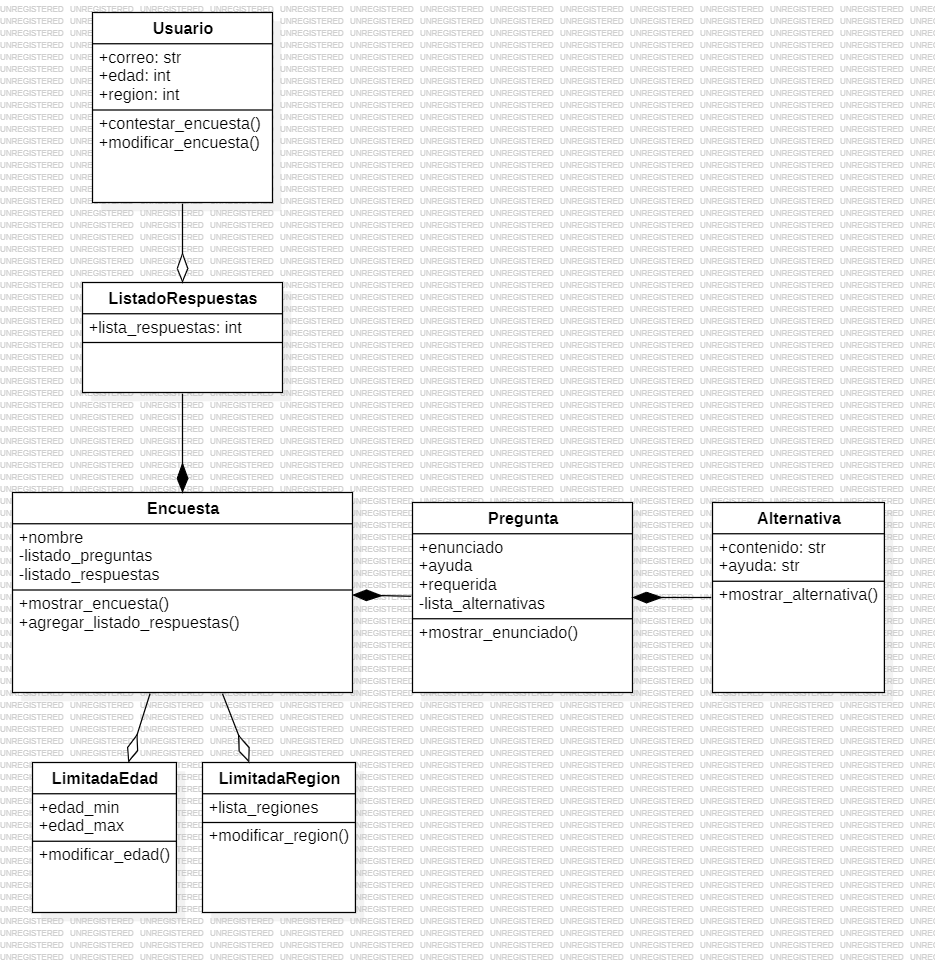
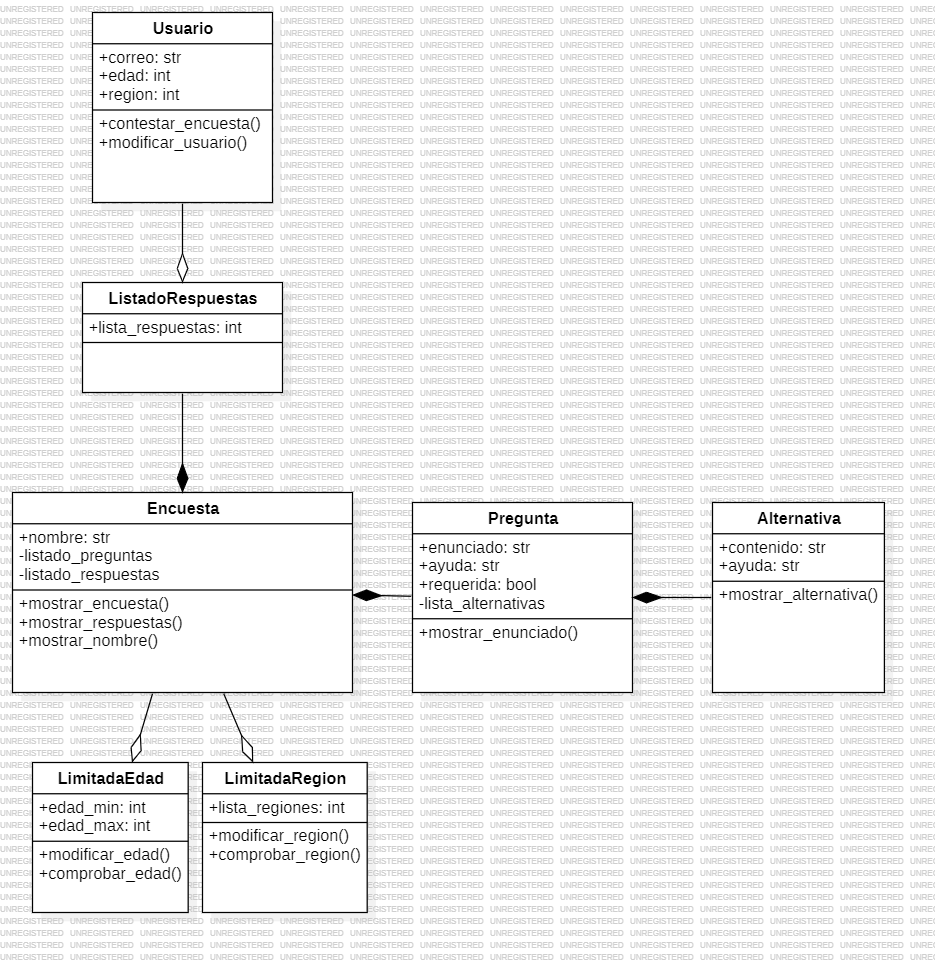
Desafio: Diagrama de clases

diff --git a/Dia09/Model/Encuesta.py b/Dia09/Model/Encuesta.py
@@ -2,14 +2,25 @@
 #-*- coding: utf-8 -*-
 
 class Encuesta:
-    def __init__(self):
-        self.nombre = None
-        self.listado_preguntas = None
-        self.listado_respuestas = None
+    def __init__(self, nombre:str, listado_preguntas, listado_respuestas):
+        self.nombre = nombre
+        self.__listado_preguntas = listado_preguntas
+        self.__listado_respuestas = listado_respuestas
 
-    def mostrar_encuesta(self, ):
-        pass
+    @property
+    def listado_preguntas(self):
+        return self.__listado_preguntas
 
-    def agregar_listado_respuestas(self, ):
-        pass
+    @property
+    def listado_respuestas(self):
+        return self.__listado_respuestas
+
+    def modificar_nombre(self, nuevo_nombre:str):
+        self.nombre = nuevo_nombre
+
+    def mostrar_encuesta(self):
+        print(self.nombre, self.listado_preguntas)
+
+    def mostrar_respuestas(self):
+        print(self.nombre, self.listado_respuestas)
 

diff --git a/Dia09/Model/Usuario.py b/Dia09/Model/Usuario.py
@@ -2,14 +2,20 @@
 #-*- coding: utf-8 -*-
 
 class Usuario:
-    def __init__(self):
-        self.correo = None
-        self.edad = None
-        self.region = None
+    def __init__(self, correo:str, edad:int, region:int):
+        self.correo = correo
+        self.edad = edad
+        self.region = region
 
-    def contestar_encuesta(self, ):
-        pass
+    def modificar_usuario(self, nuevo_correo:str, nueva_edad:int, nueva_region:int):
+        self.correo = nuevo_correo
+        self.edad = nueva_edad
+        self.region = nueva_region
 
-    def modificar_encuesta(self, ):
-        pass
+
+    def contestar_encuesta(self, encuesta, respuesta):
+        listado_respuesta = ListadoRespuestas(self, respuesta)
+        encuesta.listado_respuesta.append(listado_respuesta)
+
+
 

diff --git a/Dia09/Model/Pregunta.py b/Dia09/Model/Pregunta.py
@@ -2,12 +2,16 @@
 #-*- coding: utf-8 -*-
 
 class Pregunta:
-    def __init__(self):
-        self.enunciado = None
-        self.ayuda = None
-        self.requerida = None
-        self.lista_alternativas = None
+    def __init__(self, enunciado:str, ayuda:str, requerida:bool, lista_alternativas):
+        self.enunciado = enunciado
+        self.ayuda = ayuda
+        self.requerida = requerida
+        self.__lista_alternativas = lista_alternativas
 
-    def mostrar_enunciado(self, ):
-        pass
+    @property #Getter para la lista de alternativas
+    def lista_alternativas(self):
+        return self.__lista_alternativas
+
+    def mostrar_enunciado(self):
+        return print(self.mostrar_enunciado)
 

diff --git a/Dia09/Model/LimitadaEdad.py b/Dia09/Model/LimitadaEdad.py
@@ -2,10 +2,13 @@
 #-*- coding: utf-8 -*-
 
 class LimitadaEdad:
-    def __init__(self):
-        self.edad_min = None
-        self.edad_max = None
+    def __init__(self, edad_min: int, edad_max:int):
+        self.edad_min = edad_min
+        self.edad_max = edad_max
 
-    def modificar_edad(self, ):
+    def modificar_edad(self):
         pass
-
+    
+    def comprobar_edad(self, edad:int):
+        return self.edad_min <= edad <= self.edad_max #la edad está entre el rango
+    

diff --git a/Dia09/Model/LimitadaRegion.py b/Dia09/Model/LimitadaRegion.py
@@ -2,9 +2,11 @@
 #-*- coding: utf-8 -*-
 
 class LimitadaRegion:
-    def __init__(self):
-        self.lista_regiones = None
+    def __init__(self, lista_regiones: int):
+        self.lista_regiones = lista_regiones
 
-    def modificar_region(self, ):
+    def modificar_region(self):
         pass
-
+    
+    def comprobar_region(self, region:int):
+        return region in self.lista_regiones #la region del usuario la comprobamos dentro dela lista de regiones

diff --git a/Dia09/Model/Alternativa.py b/Dia09/Model/Alternativa.py
@@ -2,10 +2,10 @@
 #-*- coding: utf-8 -*-
 
 class Alternativa:
-    def __init__(self):
-        self.contenido = None
-        self.ayuda = None
+    def __init__(self, contenido: str, ayuda: str):
+        self.contenido = contenido
+        self.ayuda = ayuda
 
-    def mostrar_alternativa(self, ):
-        pass
+    def mostrar_alternativa(self):
+        return print(self.mostrar_alternativa)
 

diff --git a/Dia09/Model/ListadoRespuestas.py b/Dia09/Model/ListadoRespuestas.py
@@ -2,6 +2,11 @@
 #-*- coding: utf-8 -*-
 
 class ListadoRespuestas:
-    def __init__(self):
-        self.lista_respuestas = None
+    def __init__(self, lista_respuestas:int, usuario):
+        self.usuario = usuario
+        self.__lista_respuestas = lista_respuestas
 
+    @property
+    def lista_respuestas(self):
+        return self.__lista_respuestas
+    

diff --git a/Dia09/Model/README.md b/Dia09/Model/README.md
@@ -1,0 +1,9 @@
+********************
+Integrantes grupo2:
+
+Edinson Ahumada
+Najla Gatica
+Livio Gutierrez
+Pablo Hernández
+Manuel Ruiz
+*******************
